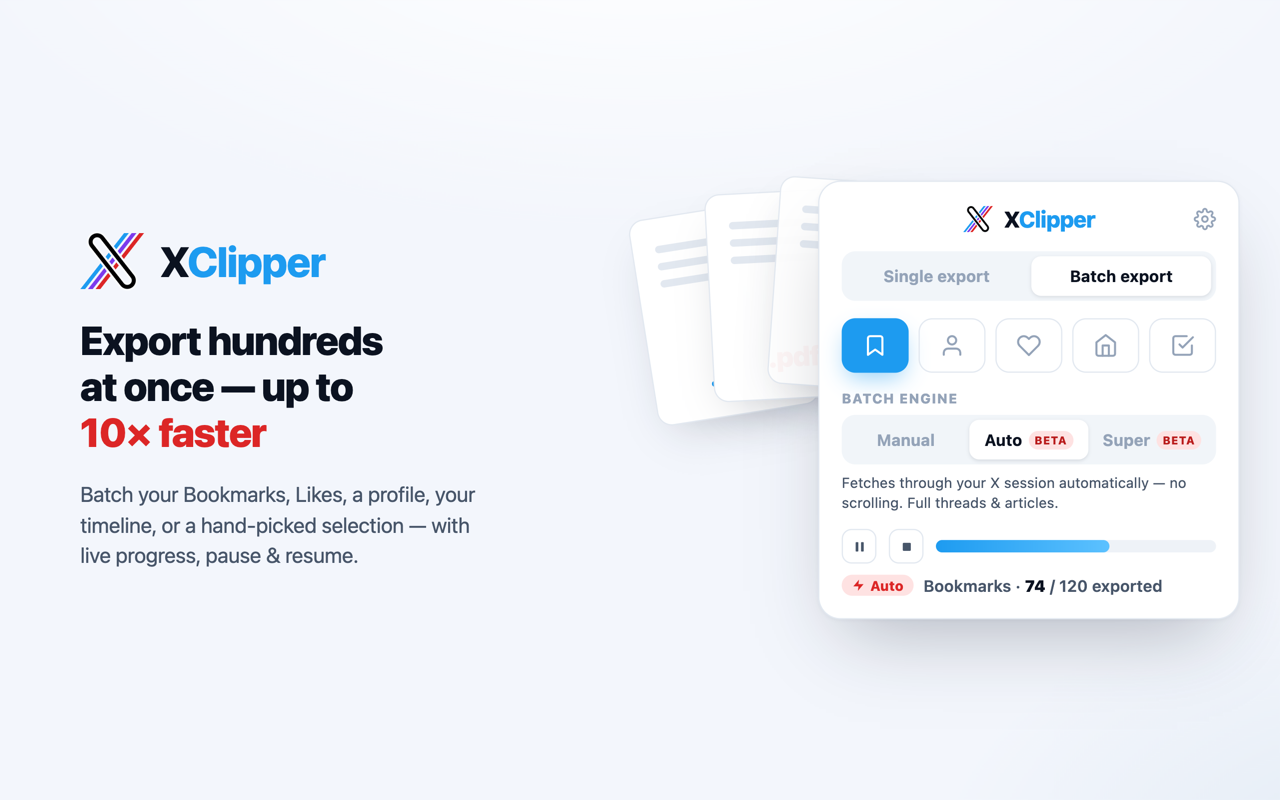
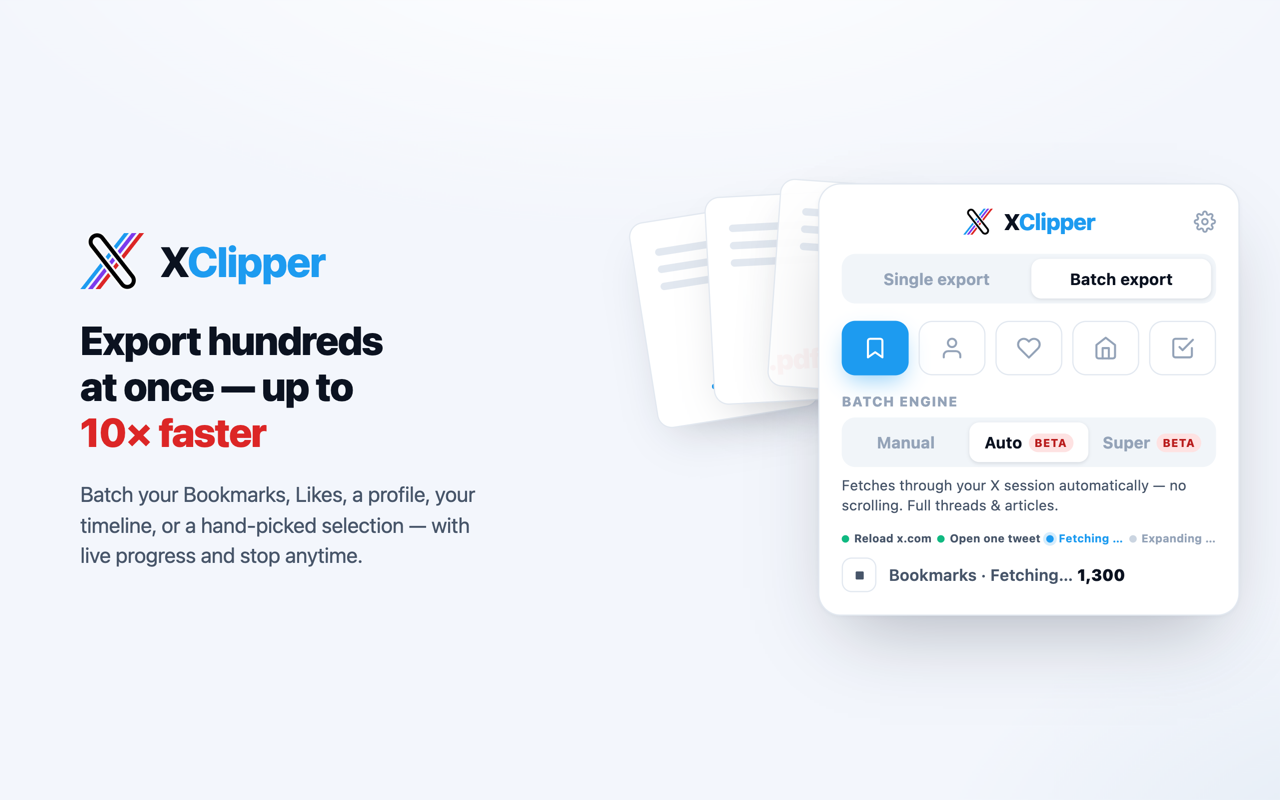
docs: scope pause and the progress bar to Manual, and record the engine selector in ADR 0003
The batch mockup showed a Pause button and a 62%-full determinate bar while
the Auto engine was selected. Auto and Super have neither: collection is
open-ended, so the popup hides the bar and pause and shows a live count and
step lights instead. Rebuild that panel to match, and scope the same claim
where the README made it for every engine.

ADR 0003 still described a Standard/Fast toggle, a separate Super Fast
toggle, a fastBatchConsent setting, and reused pause/resume. Append a dated
amendment recording what shipped instead, leaving the original decisions as
the historical record they are.

diff --git a/store/mockups/07-batch-export.html b/store/mockups/07-batch-export.html
@@ -165,16 +165,21 @@
   .mode .beta { font-size: 9px; font-weight: 800; color: #b91c1c; background: #fee2e2; border-radius: 999px; padding: 2px 5px; letter-spacing: .04em; text-transform: uppercase; }
   .mode-caption { font-size: 11.5px; color: var(--ink-2); line-height: 1.35; }
 
-  .progress { display: flex; flex-direction: column; gap: 9px; }
+  .progress { display: flex; flex-direction: column; gap: 10px; }
+  /* One row, like the popup's .fast-steps (space-between, no wrap) — sized down
+     to fit this 340px mock against the real 416px popup. */
+  .steps { display: flex; align-items: center; justify-content: space-between; gap: 4px; }
+  .step { display: inline-flex; align-items: center; gap: 4px; font-size: 9px; font-weight: 700; color: var(--ink-3); white-space: nowrap; }
+  .step::before { content: ''; width: 6px; height: 6px; border-radius: 50%; background: #cbd5e1; flex-shrink: 0; }
+  .step.done { color: var(--ink-2); }
+  .step.done::before { background: var(--green); }
+  .step.live { color: var(--brand); }
+  .step.live::before { background: var(--brand); box-shadow: 0 0 0 2.5px rgba(29,155,240,.18); }
   .prow { display: flex; align-items: center; gap: 10px; }
   .ctl { width: 28px; height: 28px; border-radius: 8px; border: 1px solid var(--line); display: flex; align-items: center; justify-content: center; color: var(--ink-2); flex-shrink: 0; }
   .ctl svg { width: 13px; height: 13px; fill: currentColor; }
-  .bar { flex: 1; height: 10px; border-radius: 999px; background: #eef2f7; overflow: hidden; }
-  .bar > i { display: block; height: 100%; width: 62%; border-radius: 999px; background: linear-gradient(90deg, var(--brand), #5cc1ff); }
-  .plabel { display: flex; align-items: center; gap: 8px; font-size: 13px; color: var(--ink-2); font-weight: 600; }
+  .plabel { font-size: 13px; color: var(--ink-2); font-weight: 600; }
   .plabel b { color: var(--ink); }
-  .plabel .chip { display: inline-flex; align-items: center; gap: 4px; font-size: 11px; font-weight: 800; color: var(--red); background: #fee2e2; border-radius: 999px; padding: 2px 8px; }
-  .plabel .chip svg { width: 11px; height: 11px; fill: var(--red); }
 </style>
 </head>
 <body>
@@ -186,7 +191,7 @@
       <div class="wordmark">X<span style="color: var(--brand);">Clipper</span></div>
     </div>
     <h1>Export hundreds<br>at once — up to<br><span class="hot">10× faster</span></h1>
-    <p>Batch your Bookmarks, Likes, a profile, your timeline, or a hand-picked selection — with live progress, pause &amp; resume.</p>
+    <p>Batch your Bookmarks, Likes, a profile, your timeline, or a hand-picked selection — with live progress and stop anytime.</p>
   </div>
 
   <div class="right-panel">
@@ -235,16 +240,19 @@
           <div class="mode-caption">Fetches through your X session automatically &mdash; no scrolling. Full threads &amp; articles.</div>
         </div>
 
-        <!-- Progress (running) -->
+        <!-- Progress (Auto running). Auto/Super have Stop but no Pause, and no
+             determinate bar — collection is open-ended, so a fraction would be
+             fake. The step lights and live count carry progress, as in the popup. -->
         <div class="progress">
-          <div class="prow">
-            <div class="ctl"><svg viewBox="0 0 24 24"><rect x="6" y="5" width="4" height="14" rx="1"/><rect x="14" y="5" width="4" height="14" rx="1"/></svg></div>
-            <div class="ctl"><svg viewBox="0 0 24 24"><rect x="6" y="6" width="12" height="12" rx="1.5"/></svg></div>
-            <div class="bar"><i></i></div>
+          <div class="steps">
+            <span class="step done">Reload x.com</span>
+            <span class="step done">Open one tweet</span>
+            <span class="step live">Fetching …</span>
+            <span class="step">Expanding …</span>
           </div>
-          <div class="plabel">
-            <span class="chip"><svg viewBox="0 0 24 24"><polygon points="13 2 3 14 12 14 11 22 21 10 12 10 13 2"/></svg>Auto</span>
-            <span>Bookmarks · <b>74</b> / 120 exported</span>
+          <div class="prow">
+            <div class="ctl"><svg viewBox="0 0 24 24"><rect x="6" y="6" width="12" height="12" rx="1.5"/></svg></div>
+            <div class="plabel">Bookmarks · Fetching… <b>1,300</b></div>
           </div>
         </div>
       </div>

diff --git a/docs/adr/0003-fast-batch-graphql.md b/docs/adr/0003-fast-batch-graphql.md
@@ -1,7 +1,7 @@
 # ADR 0003 — Fast Batch: acquire tweets via X's internal GraphQL (opt-in)
 
-- Status: **Accepted — implemented for Bookmarks, Profile, and Likes (threads + Article bodies via per-item TweetDetail) with the popup toggle/consent/progress UI. Extended 2026-07-11 with Recent/Resume/Date-range fetch modes + per-mode continuation cursors (see "Pagination modes & cursors" below).**
-- Date: 2026-06-13 (implemented 2026-06-14; pagination modes 2026-07-11)
+- Status: **Accepted — implemented for Bookmarks, Profile, and Likes (threads + Article bodies via per-item TweetDetail). Extended 2026-07-11 with Recent/Resume/Date-range fetch modes + per-mode continuation cursors (see "Pagination modes & cursors"). Amended 2026-08-31: the Standard/Fast toggle + Super Fast toggle became one `Manual | Auto | Super` engine selector, and the bespoke consent dialog became Chrome's own optional-permission prompt (see "Engine selector supersedes the toggles").**
+- Date: 2026-06-13 (implemented 2026-06-14; pagination modes 2026-07-11; engine selector 2026-08-31)
 - Deciders: @zendegani
 - Relates to: ADR 0001 (Content AST), ADR 0002 (Batch export)
 - Supersedes: — (adds an alternate acquisition path; does **not** replace ADR 0002)
@@ -165,6 +165,27 @@ State lives in `src/background/fast-batch.ts`; the keys in `batch-state.ts`.
 | 13 | **Incomplete backlog is retried by id, feed-independent.** Posts a prior rate-limited run left as stubs are completed by a direct `TweetDetail` fetch **by id** at the start of the next run (any mode), not by re-encountering them in the feed. Stubs live in an `_incomplete_rerun_to_complete/` subfolder, un-ledgered and out of the combined/manifest until completed. | Resume and Date range move *past* the stubs' feed positions, and Recent never reaches deep ones — so re-collection can't be relied on to finish them (issue #81 refined). |
 | 14 | **Dedup stores both ids a post can appear under.** Edited tweets, and thread-replies that re-root to the thread's first tweet on expansion, get a different canonical id than the bookmarks feed lists; the ledger records **both** the feed id and the expanded/canonical id. | Storing only the canonical id meant the next run's feed (which lists the other id) never matched, and the post re-exported every run. |
 | 15 | **Super Fast skips thread expansion, trading depth for run size (issue #85).** An opt-in popup toggle sends `expandThreads: false`; with no per-item `TweetDetail` budget to honor, the run cap rises from 150 to `SUPER_FAST_MAX_ITEMS` (3000 — the page budget, ~150 pages × ~20 posts). Threads export as their root post only; **articles are still expanded** (their body only exists via `TweetDetail`) and the incomplete backlog still completes first. | Expansion, not pagination, is what rate-limits a run — one request *per item* vs. one per ~20 items. Measured on a real feed, a no-expand run walked ~48 pages and exported 1012 items in one go (vs. ~7 runs at 150), while its 66 remaining `TweetDetail` calls (backlog + articles) stayed under the limit; the rate-limit stop (#7) remains the safety net for those. |
+
+## Engine selector supersedes the toggles (2026-08-31)
+
+Decisions #1/#2 shipped as a **Standard / Fast ⚡** toggle plus a bespoke
+consent dialog, and #15 added a second, separate **Super Fast** toggle. Two
+independent booleans encoded three mutually exclusive behaviours, so the
+invalid fourth state (Super on, Fast off) had to be defended against, and
+neither toggle said what the other engine would do. The consent dialog also
+duplicated a prompt Chrome shows anyway when an optional permission is
+requested. What shipped instead:
+
+| # | Decision | Rationale |
+|---|---|---|
+| 16 | **One three-way engine selector replaces both toggles.** `type BatchMode = 'manual' \| 'auto' \| 'super'` (`src/popup/fast-batch-ui.ts`), rendered as a `Manual \| Auto \| Super` segmented control with a caption per engine. **Manual** is the ADR 0002 worker-tab path and the default; **Auto** is Fast Batch with thread expansion; **Super** is Fast Batch with `expandThreads: false` (#15's mechanism, unchanged). The old `FAST_MODE_KEY`/`FAST_SUPER_KEY` booleans are migrated to the mode string on read. | Three exclusive engines are one choice, not two booleans — the impossible state stops existing, and each engine's cost is stated in its caption at the moment of choosing. Renaming "Standard" to "Manual" says what the user does (scroll the feed), not merely that it is the older path. |
+| 17 | **Consent is Chrome's own optional-permission prompt.** Picking Auto or Super calls `chrome.permissions.request({permissions:['webRequest'], origins:['*://x.com/*']})`; the `fastBatchConsent` setting is gone. Revoking the permission drops the selector back to Manual. | Chrome's prompt is the trustworthy surface for a permission grant — unspoofable, and revocable in the browser's own UI. Our dialog restated it in a place users have no reason to trust more, and could drift out of sync with the permission's real state. Decision #2's *substance* (informed, deliberate, revocable) is kept; only the surface changed. |
+| 18 | **Auto/Super expose Stop, not pause/resume, and no determinate bar.** Decision #6 assumed the ADR 0002 pause machinery carried over. It does not: collection is open-ended (the total is unknown until the feed ends) and Super streams writes in parallel, so a fraction would be fake. The popup hides the bar and the Pause button for any Fast run (`#view-main.fast-on .batch-bar`), leaving `[■] Bookmarks · Fetching… 1300` plus the step lights. Manual keeps its bar and pause, where the total is known and writes are sequential. | Better to show a true open-ended count than a progress bar that cannot be honest. A rate-limited or stopped run is resumed by re-running (#10, #13), which is the real continuation mechanism here — pause would imply a held in-memory position that the background job does not keep. |
+
+Retroactively, this means #1's "toggle", #2's consent dialog, #6's "pause/resume"
+reuse, and #15's "opt-in popup toggle" name the *shape* of a decision that has
+since changed; the underlying choices they record — two paths kept, informed
+consent, orchestration reuse, and depth-for-volume — all still hold.
 
 ## References
 

diff --git a/README.md b/README.md
@@ -36,7 +36,7 @@ Most "tweet to markdown" tools run a post through a generic HTML→Markdown conv
 - **Output you won't have to clean up.** The DOM is parsed into a typed **Content AST** before anything is rendered, so structure survives: nested threads, quote tweets, polls, link cards, and full long-form **Articles** (headings, lists, code blocks) all come through faithfully. `t.co` links are resolved to real URLs, emoji and @mentions stay intact, truncated posts are expanded, and engagement bars, follow prompts, and trackers are stripped.
 - **Real PDFs, not screenshots.** PDF export goes through Chrome's native print engine — selectable text, clickable links, embedded images, and full Unicode/emoji — so the result is an actual document, not a flattened image.
 - **Media saved as files, not links.** Images are downloaded next to the Markdown, and each post's video or GIF is saved as a real `.mp4` — quoted posts included — with a `▶ Video` link in the Markdown pointing at the file, so your notes survive link rot and deleted posts.
-- **Batch, not one-at-a-time.** Export your entire **Bookmarks**, **Likes**, a **Profile**, your home **Timeline**, or a hand-picked **Selection** in a single background job, with progress, pause/resume/stop, and dedup — plus an optional **Fast mode** that pulls items straight from your X session for a roughly **10× speed-up**.
+- **Batch, not one-at-a-time.** Export your entire **Bookmarks**, **Likes**, a **Profile**, your home **Timeline**, or a hand-picked **Selection** in a single background job, with live progress, stop, and dedup — plus the optional **Auto** and **Super** engines that pull items straight from your X session for a roughly **10× speed-up**.
 - **100% local, zero setup.** No API keys, no accounts, nothing leaves your browser. Install and clip.
 
 <p align="center">
@@ -47,7 +47,7 @@ Most "tweet to markdown" tools run a post through a generic HTML→Markdown conv
 
 ### Headline
 
-- **Batch export** — Export many posts at once from five sources via an icon tab strip: **Bookmarks**, **Profile** (own posts; reposts skipped), **Likes**, **Timeline** (every post loaded in your home feed), or **Selection** (tick individual tweets with checkboxes on any timeline). Pick the **format** and whether to write **Separate** per-post files, one **Combined** file (`x-compilation-<date>`), or **Both**. Runs in the background (one job at a time) with a live progress bar and **pause / resume / stop** — close and reopen the popup mid-job. A dedup ledger skips already-exported items, and you can keep adding newly-scrolled posts to a running job.
+- **Batch export** — Export many posts at once from five sources via an icon tab strip: **Bookmarks**, **Profile** (own posts; reposts skipped), **Likes**, **Timeline** (every post loaded in your home feed), or **Selection** (tick individual tweets with checkboxes on any timeline). Pick the **format** and whether to write **Separate** per-post files, one **Combined** file (`x-compilation-<date>`), or **Both**. Runs in the background (one job at a time) with live progress and **stop**; **Manual** adds a determinate progress bar plus **pause / resume** (Auto and Super collect open-endedly, so they show a live count instead). Close and reopen the popup mid-job. A dedup ledger skips already-exported items, and you can keep adding newly-scrolled posts to a running job.
 - **Auto & Super engines ⚡ (opt-in)** — Two optional accelerated engines for **Bookmarks, Profile, and Likes** that fetch posts directly through your logged-in X session's internal API instead of rendering each page — roughly **10× faster** (minutes → seconds), mapped into the same output so every format and setting works identically. No API key, no password, nothing leaves your browser. **Manual** is the default; see [the caveats below](#faster-batch-engines-opt-in) before switching.
 - **Seven export formats** — Save a single post as **Markdown, PDF, HTML, JSON, TXT, or CSV**, or hand it to **Obsidian**. Batch jobs support all of these except PDF. CSV pairs your metadata columns with a `text` column for the post body.
 - **High-fidelity Markdown** — Tweets, nested threads, quote tweets, polls, link cards, and X Articles render cleanly via the AST pipeline (no Turndown), with resolved `t.co` links, inlined emoji, and tidy @mentions.
